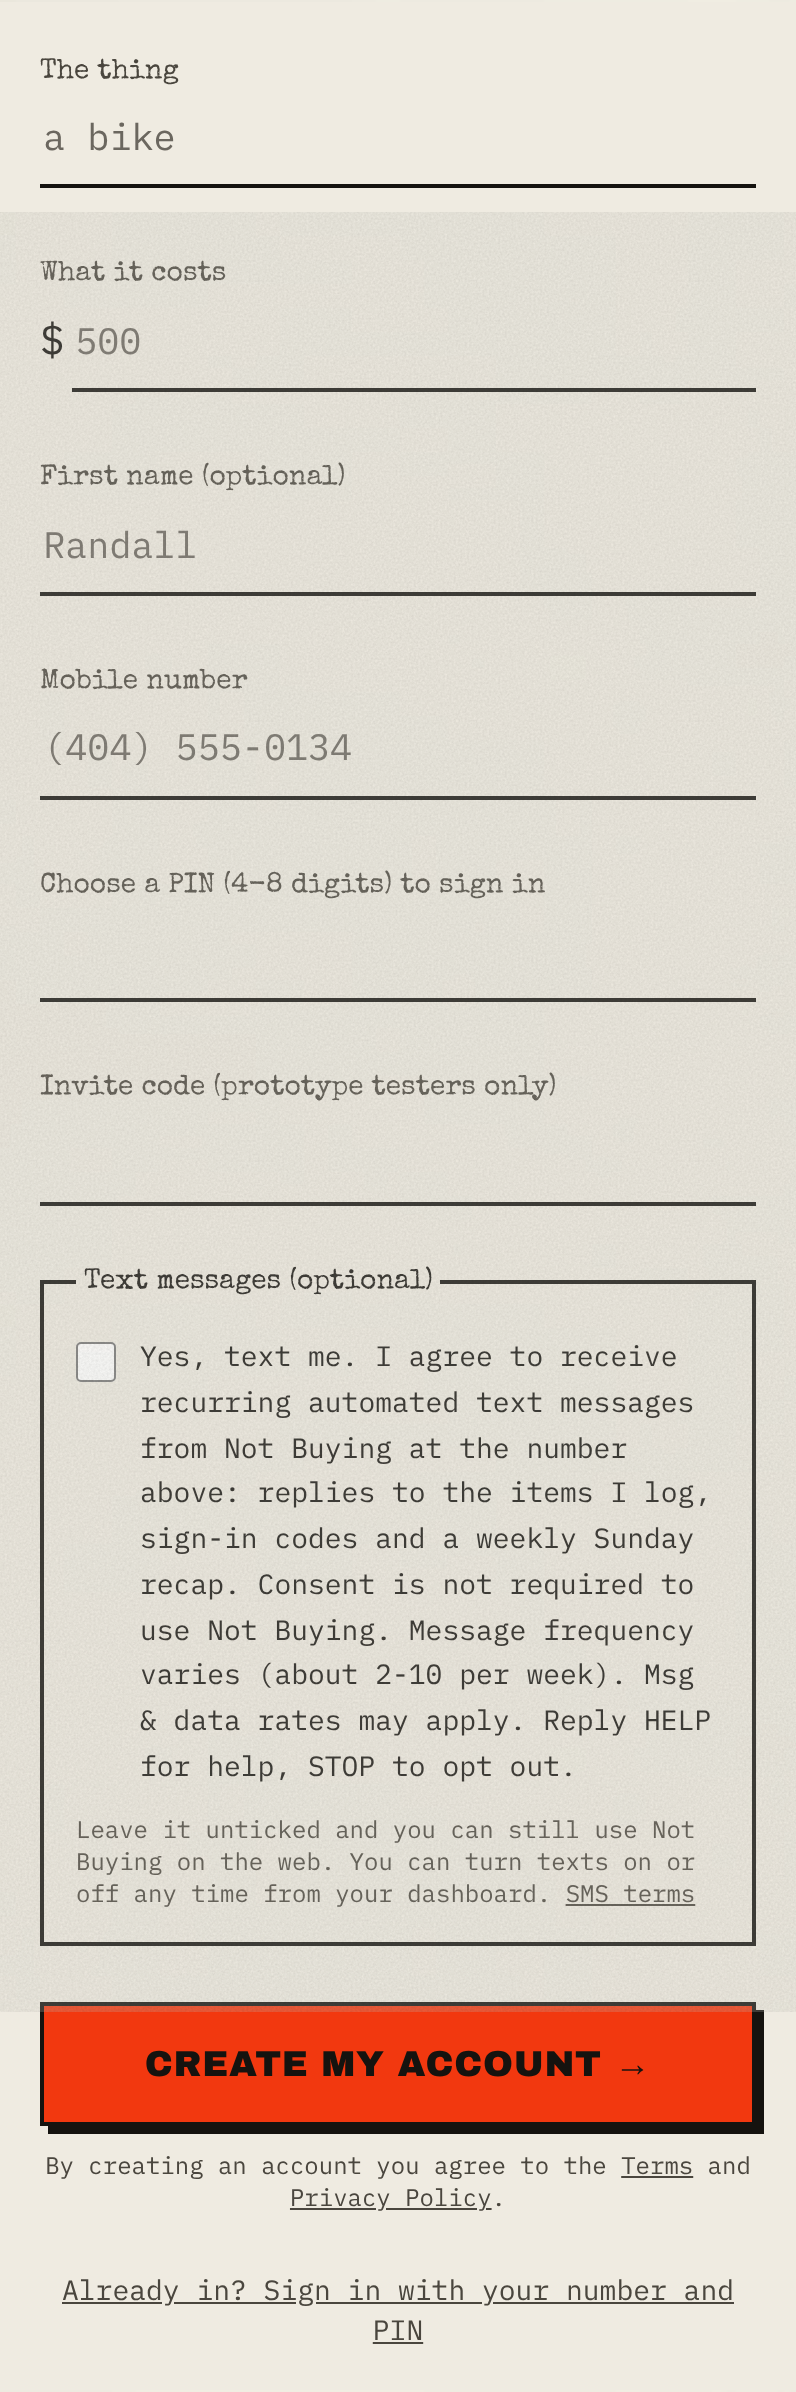
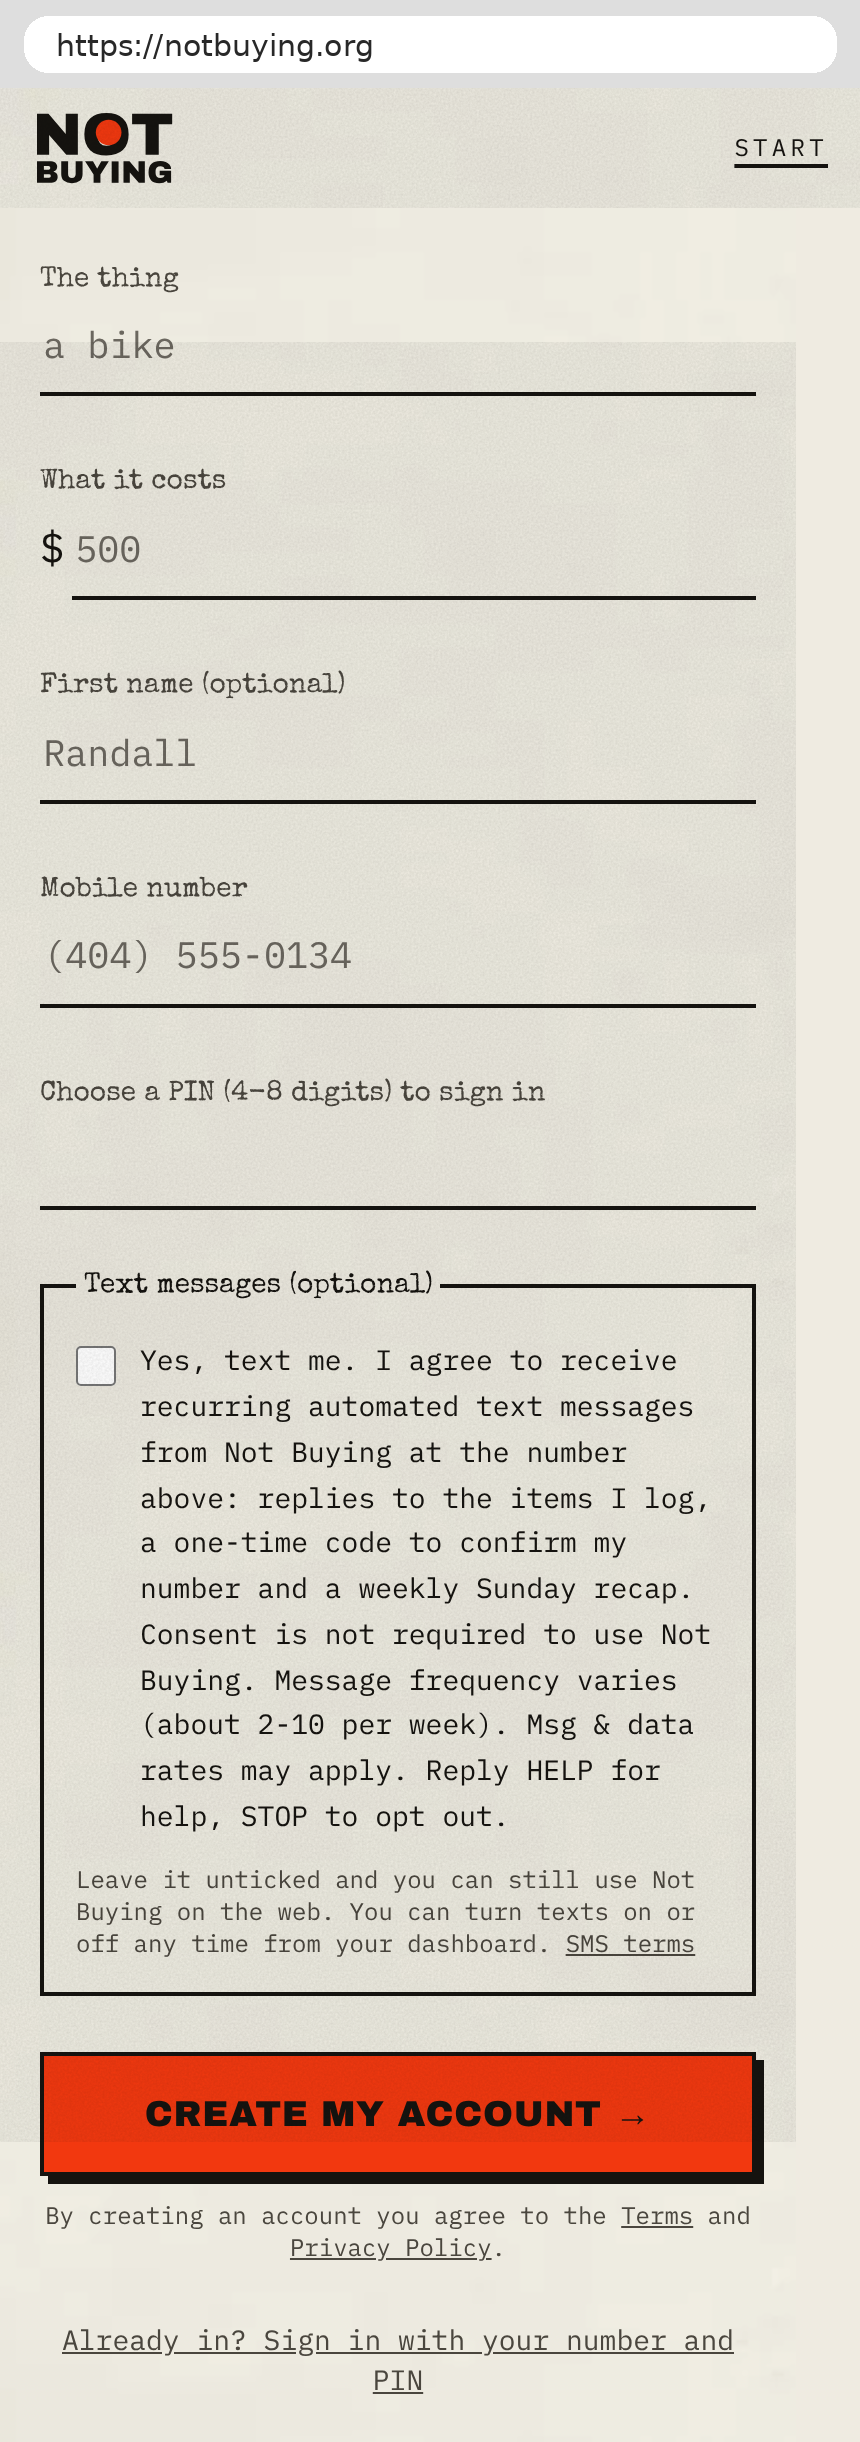
TFV review fixes: strict no-sharing clause, brand name on every outbound text, opt-in confirmation message, accurate consent wording, fuller SMS terms, open sign-up (no invite gate), branded opt-in screenshot
Claude-Session: https://claude.ai/code/session_01Eh1Nb8QKTcGWCiZtGRZdnF

diff --git a/src/app/sms/page.tsx b/src/app/sms/page.tsx
@@ -1,6 +1,6 @@
 import Link from "next/link";
 import LegalShell from "../legal-shell";
-import { SMS_CONSENT_TEXT } from "@/lib/consent";
+import { SMS_CONSENT_TEXT, SMS_OPTIN_CONFIRMATION } from "@/lib/consent";
 
 export const metadata = { title: "SMS Terms & Opt-in · Not Buying" };
 
@@ -34,15 +34,15 @@ export default function Sms() {
       <h2>What we send</h2>
       <ul>
         <li>A reply to each message the person sends us (a receipt for the item they logged).</li>
-        <li>A one-time code to confirm their number when they turn texts on.</li>
+        <li>A one-time code to confirm their number when they turn texts on, then one confirmation message: &ldquo;{SMS_OPTIN_CONFIRMATION}&rdquo;</li>
         <li>One weekly recap on Sundays.</li>
       </ul>
       <p>Message frequency varies (about 2-10 messages per week). Message and data rates may apply. We never send marketing or promotional texts.</p>
 
       <h2>Sample messages</h2>
       <ul>
-        <li>&ldquo;No croissant. +$5. Bike: $155 of $500 (31%). $0.50 pledged to Feeding America (~5 meals). Every no is a yes to something.&rdquo;</li>
-        <li>&ldquo;Issue 03. $86 not spent, $8.60 to give. Send the difference + see your dashboard: https://notbuying.org/in/...&rdquo;</li>
+        <li>&ldquo;Not Buying: No croissant. +$5. Bike: $155 of $500 (31%). $0.50 pledged to Feeding America (~5 meals). Every no is a yes to something.&rdquo;</li>
+        <li>&ldquo;Not Buying, Issue 03. $86 not spent, $8.60 to give. Send the difference + see your dashboard: https://notbuying.org/in/abc123&rdquo;</li>
         <li>&ldquo;Not Buying: your code is 482913. Enter it to turn on texts. Msg &amp; data rates may apply. Reply STOP to opt out.&rdquo;</li>
       </ul>
 

diff --git a/src/app/legal/privacy/page.tsx b/src/app/legal/privacy/page.tsx
@@ -24,7 +24,7 @@ export default function Privacy() {
       <h2>How we use information</h2>
       <ul>
         <li>To provide the service: record what you log, calculate your goal progress and pledges, show your dashboard and weekly recap.</li>
-        <li>If you opted in to texts: to reply to your texts, send sign-in and confirmation codes, and send one weekly recap.</li>
+        <li>If you opted in to texts: to reply to your texts, send a one-time code to confirm your number, and send one weekly recap.</li>
         <li>To keep the service secure, prevent abuse and fix problems.</li>
         <li>To understand, in aggregate, how the service is used so we can improve it.</li>
       </ul>
@@ -39,8 +39,7 @@ export default function Privacy() {
       <p>
         <strong>
           No mobile information will be shared with third parties or affiliates for marketing or promotional purposes. Text messaging originator opt-in data and consent
-          will not be shared with any third parties, except with the service providers that deliver our text messages on our behalf (for example, Twilio) and only to
-          provide the service.
+          will not be shared with any third parties.
         </strong>{" "}
         All the sharing categories described below exclude text messaging originator opt-in data and consent; this information will not be shared with any third parties.
       </p>

diff --git a/src/app/signup.tsx b/src/app/signup.tsx
@@ -3,7 +3,7 @@ import Link from "next/link";
 import { useState } from "react";
 import { SMS_CONSENT_TEXT } from "@/lib/consent";
 
-export default function Signup({ signedIn, demo }: { signedIn: boolean; demo: boolean }) {
+export default function Signup({ signedIn }: { signedIn: boolean; demo?: boolean }) {
   const [mode, setMode] = useState<"signup" | "login">("signup");
   const [step, setStep] = useState<"form" | "code">("form");
   const [busy, setBusy] = useState(false);
@@ -87,12 +87,6 @@ export default function Signup({ signedIn, demo }: { signedIn: boolean; demo: bo
               autoComplete={mode === "signup" ? "new-password" : "current-password"}
             />
           </label>
-          {demo && (
-            <label className="block">
-              <span className="type text-sm text-ink-2">Invite code (prototype testers only)</span>
-              <input className="field" required value={f.invite} onChange={set("invite")} autoCapitalize="none" autoComplete="off" />
-            </label>
-          )}
           {mode === "signup" && (
             <fieldset className="border-2 border-ink p-4">
               <legend className="type px-1 text-sm">Text messages (optional)</legend>

diff --git a/src/lib/consent.ts b/src/lib/consent.ts
@@ -1,5 +1,7 @@
 // Exact SMS consent wording. Shown next to the (optional, unchecked) checkbox, on /sms, and stored with each opt-in.
 export const SMS_CONSENT_TEXT =
-  "Yes, text me. I agree to receive recurring automated text messages from Not Buying at the number above: replies to the items I log, sign-in codes and a weekly Sunday recap. Consent is not required to use Not Buying. Message frequency varies (about 2-10 per week). Msg & data rates may apply. Reply HELP for help, STOP to opt out.";
+  "Yes, text me. I agree to receive recurring automated text messages from Not Buying at the number above: replies to the items I log, a one-time code to confirm my number and a weekly Sunday recap. Consent is not required to use Not Buying. Message frequency varies (about 2-10 per week). Msg & data rates may apply. Reply HELP for help, STOP to opt out.";
 
-export const SMS_CONSENT_VERSION = "2026-10-24";
+export const SMS_OPTIN_CONFIRMATION =
+  "Not Buying: texts are on. Text what you skipped + price (croissant 5) for a receipt, plus a recap every Sunday. About 2-10 msgs/week. Msg & data rates may apply. Reply HELP for help, STOP to opt out.";
+export const SMS_CONSENT_VERSION = "2026-10-24b";

diff --git a/src/app/api/signup/route.ts b/src/app/api/signup/route.ts
@@ -1,6 +1,6 @@
 import { NextRequest, NextResponse } from "next/server";
 import { db } from "@/lib/db";
-import { demoMode, env } from "@/lib/env";
+import { demoMode } from "@/lib/env";
 import { SMS_CONSENT_TEXT, SMS_CONSENT_VERSION } from "@/lib/consent";
 import { createUser, userByPhone } from "@/lib/ledger";
 import { toCents } from "@/lib/parse";
@@ -18,13 +18,6 @@ export async function POST(req: NextRequest) {
   const pin = String(b.pin ?? "").trim();
   if (!phone) return NextResponse.json({ error: "That doesn't look like a US mobile number." }, { status: 400 });
   if (!validPin(pin)) return NextResponse.json({ error: "Your PIN is 4 to 8 digits." }, { status: 400 });
-
-  if (demoMode()) {
-    const invite = env("DEMO_INVITE_CODE");
-    if (!invite || String(b.invite ?? "").trim().toLowerCase() !== invite.toLowerCase()) {
-      return NextResponse.json({ error: "That invite code isn't right. Ask whoever sent you the link." }, { status: 403 });
-    }
-  }
 
   const q = await db();
   const existing = await userByPhone(phone);

diff --git a/src/app/api/cron/weekly/route.ts b/src/app/api/cron/weekly/route.ts
@@ -31,8 +31,8 @@ export async function GET(req: NextRequest) {
     // A week with skips gets the card itself as a picture message; a quiet week gets a nudge.
     const mediaUrl = r.count ? `${appUrl()}/i/${encodeURIComponent(makeShareId(uid, week))}/mms` : null;
     const body = r.count
-      ? `Issue ${issue}. ${usd(r.skipped)} not spent, ${usd(r.pledged, { always2: true })} to give. Send the difference + see your dashboard: ${dash}`
-      : `Issue ${issue}: a quiet week. Nothing logged. Next time you walk past something, text it: coffee 5`;
+      ? `Not Buying, Issue ${issue}. ${usd(r.skipped)} not spent, ${usd(r.pledged, { always2: true })} to give. Send the difference + see your dashboard: ${dash}`
+      : `Not Buying, Issue ${issue}: a quiet week. Nothing logged. Next time you walk past something, text it: coffee 5`;
     if (!demoMode()) {
       const res = await sendSms(u.phone, body, mediaUrl ?? undefined);
       if (!res.ok) continue;

diff --git a/src/app/api/verify/route.ts b/src/app/api/verify/route.ts
@@ -1,5 +1,7 @@
 import { NextRequest, NextResponse } from "next/server";
-import { SMS_CONSENT_TEXT, SMS_CONSENT_VERSION } from "@/lib/consent";
+import { SMS_CONSENT_TEXT, SMS_CONSENT_VERSION, SMS_OPTIN_CONFIRMATION } from "@/lib/consent";
+import { demoMode } from "@/lib/env";
+import { sendSms } from "@/lib/sms";
 import { recordSmsConsent, userById } from "@/lib/ledger";
 import { currentUserId } from "@/lib/session";
 import { checkSmsConfirm } from "@/lib/sms-confirm";
@@ -17,5 +19,6 @@ export async function POST(req: NextRequest) {
   if (r === "expired") return NextResponse.json({ error: "That code expired. Send a new one." }, { status: 400 });
   if (r === "wrong") return NextResponse.json({ error: "Wrong code." }, { status: 400 });
   await recordSmsConsent(uid, `${SMS_CONSENT_VERSION}: ${SMS_CONSENT_TEXT}`);
+  if (!demoMode()) await sendSms(user.phone, SMS_OPTIN_CONFIRMATION).catch(() => null);
   return NextResponse.json({ ok: true });
 }

diff --git a/src/app/legal/terms/page.tsx b/src/app/legal/terms/page.tsx
@@ -22,8 +22,9 @@ export default function Terms() {
 
       <h2>Text messages (optional)</h2>
       <p>
-        Texting is optional and not required to use Not Buying. If you opt in, our <Link href="/sms">SMS Terms</Link> apply. Reply STOP to opt out at any time and
-        HELP for help. Message and data rates may apply.
+        Texting is optional and not required to use Not Buying. Not Buying texts (operated by Yardboat LLC) are replies to items you log, a one-time number
+        confirmation code and a weekly Sunday recap. Message frequency varies (about 2-10 per week). Msg &amp; data rates may apply. Reply HELP for help or email
+        hello@notbuying.org; reply STOP to opt out. Carriers are not liable for delayed or undelivered messages. Full details in our <Link href="/sms">SMS Terms</Link>.
       </p>
 
       <h2>Donations</h2>

diff --git a/src/lib/ledger.ts b/src/lib/ledger.ts
@@ -244,7 +244,9 @@ export async function handleMessage(opts: { user: User; body: string; channel: "
     hint = llm?.category ?? null;
   }
 
-  const reply = await respond(user, parsed, body, opts.sid ?? null, hint);
+  const raw = await respond(user, parsed, body, opts.sid ?? null, hint);
+  // Every outbound text names the program (carrier/TFV requirement).
+  const reply = raw && !raw.startsWith("Not Buying") ? `Not Buying: ${raw}` : raw;
   if (reply) await log(uid, "out", channel, reply, parsed.intent);
   return reply;
 }
